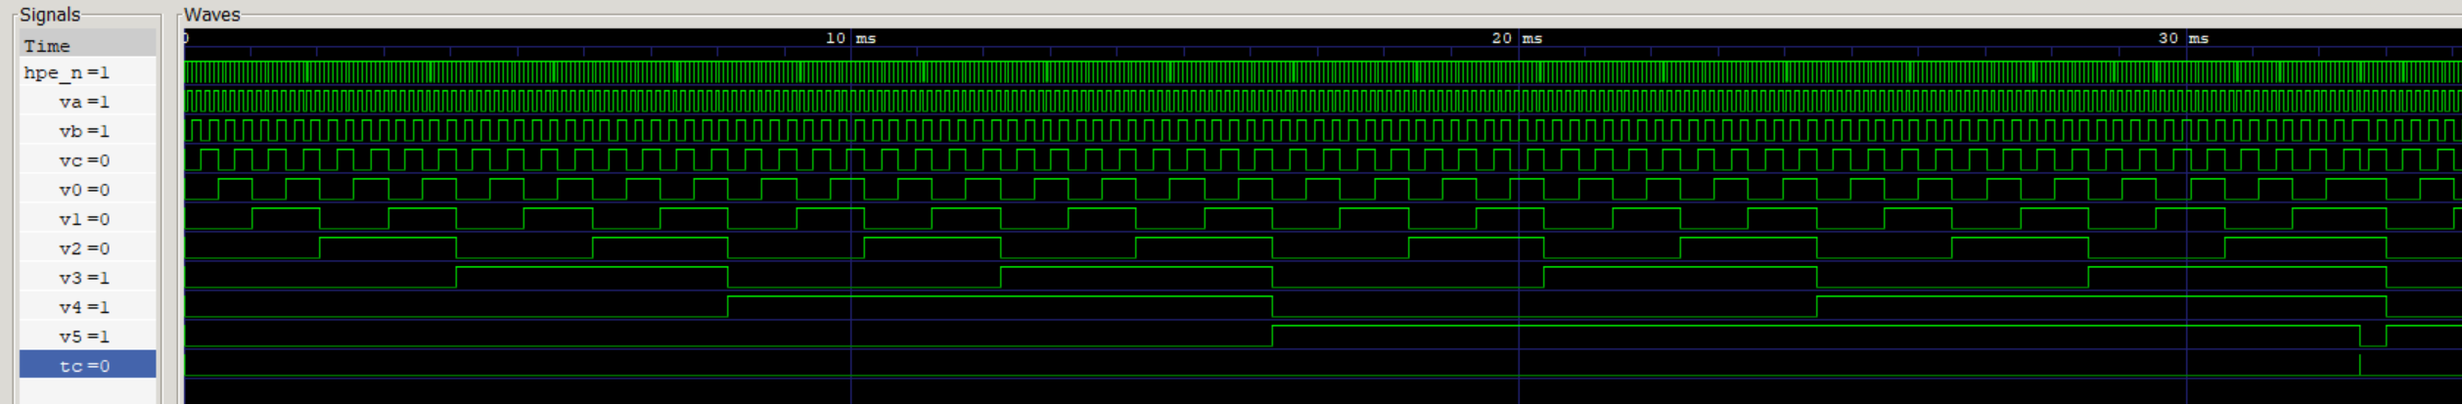
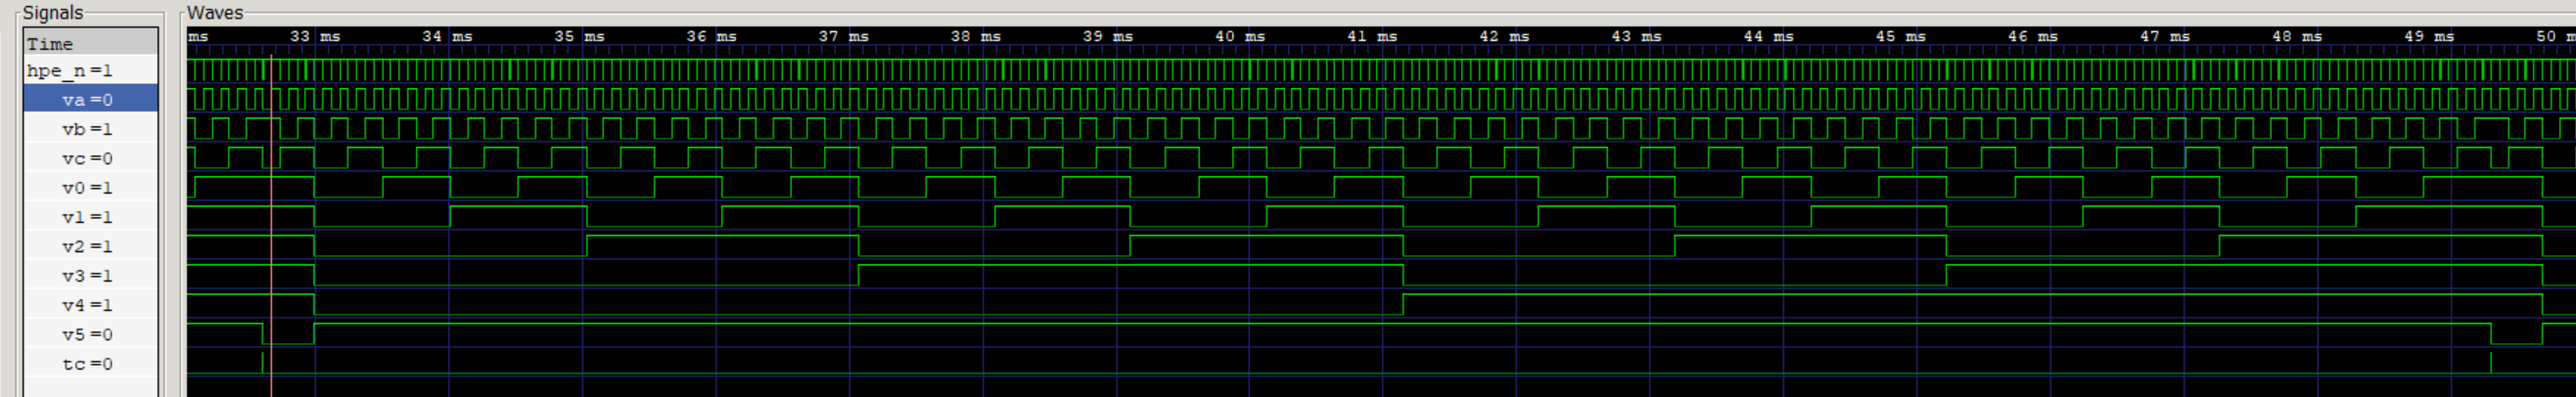
Update

diff --git a/Documentation/Understanding_IOU_MMU/video-scanner.md b/Documentation/Understanding_IOU_MMU/video-scanner.md
@@ -47,7 +47,13 @@ First the Horizontal Counter will count up from 0 to 63. During this time, `/HPE
 
 ##### Trace of the Horizontal Scanner
 
-*** FIXME
+<div align="center">
+    <img src="/resources/HorizontalScannerTrace.png" style="width: 2597px"/>
+</div>
+
+> **Note:** Note that `PHI_0` is used instead of `P_PHI_2`. See [Differences in this implementation > Clock](#Clock)
+>
+
 
 #### Vertical Scanner
 
@@ -58,14 +64,18 @@ Just like the Horizontal Counter, the counters `VA`-`VB`-`VC` and `V0`-`V5` will
 <br/>
 `VA` is connected to its corresponding DATA pin on `D9`. This have the effect of loading its own value when `/HPE` transitions LOW. The resulting signal is a regular square wave that changes at the falling edge of `/HPE`.<br/>
 <br/>
-These are the load values of the other Vertical Scanner signals:
+These are the load values for the other Vertical Scanner signals:
+
 | IOU | `VB`-`VC` | `V0`-`V5` |
+| --- | --- | --- |
 | NTSC | 10 | 011111 |
 | PAL | 00 | 011001 |
 
 ##### Trace of the Vertical Scanner
 
-*** FIXME
+<div align="center">
+    <img src="/resources/VerticalScannerTrace.png" style="width: 2632px"/>
+</div>
 
 #### `TC`
 
@@ -85,7 +95,9 @@ When the Vertical Scanner overflows, it will pulse HIGH `TC` for a single `P_PHI
 
 The Emulator uses `P_PHI_2` as a clock for the Video Scanner. The implementation in this repository however, uses directly `PHI_0`. A oscilloscope probing the signals `PHI_0`, `/PRAS`, `Q3`, and `H0` of an ASIC IOU confirms that the official IOU uses `PHI_0`:
 
-*** FIXME
+<div align="center">
+    <img src="/resources/ScopeH0.png" style="width: 1024px"/>
+</div>
 
 ## Experimenting with GHDL / GtkWave
 
